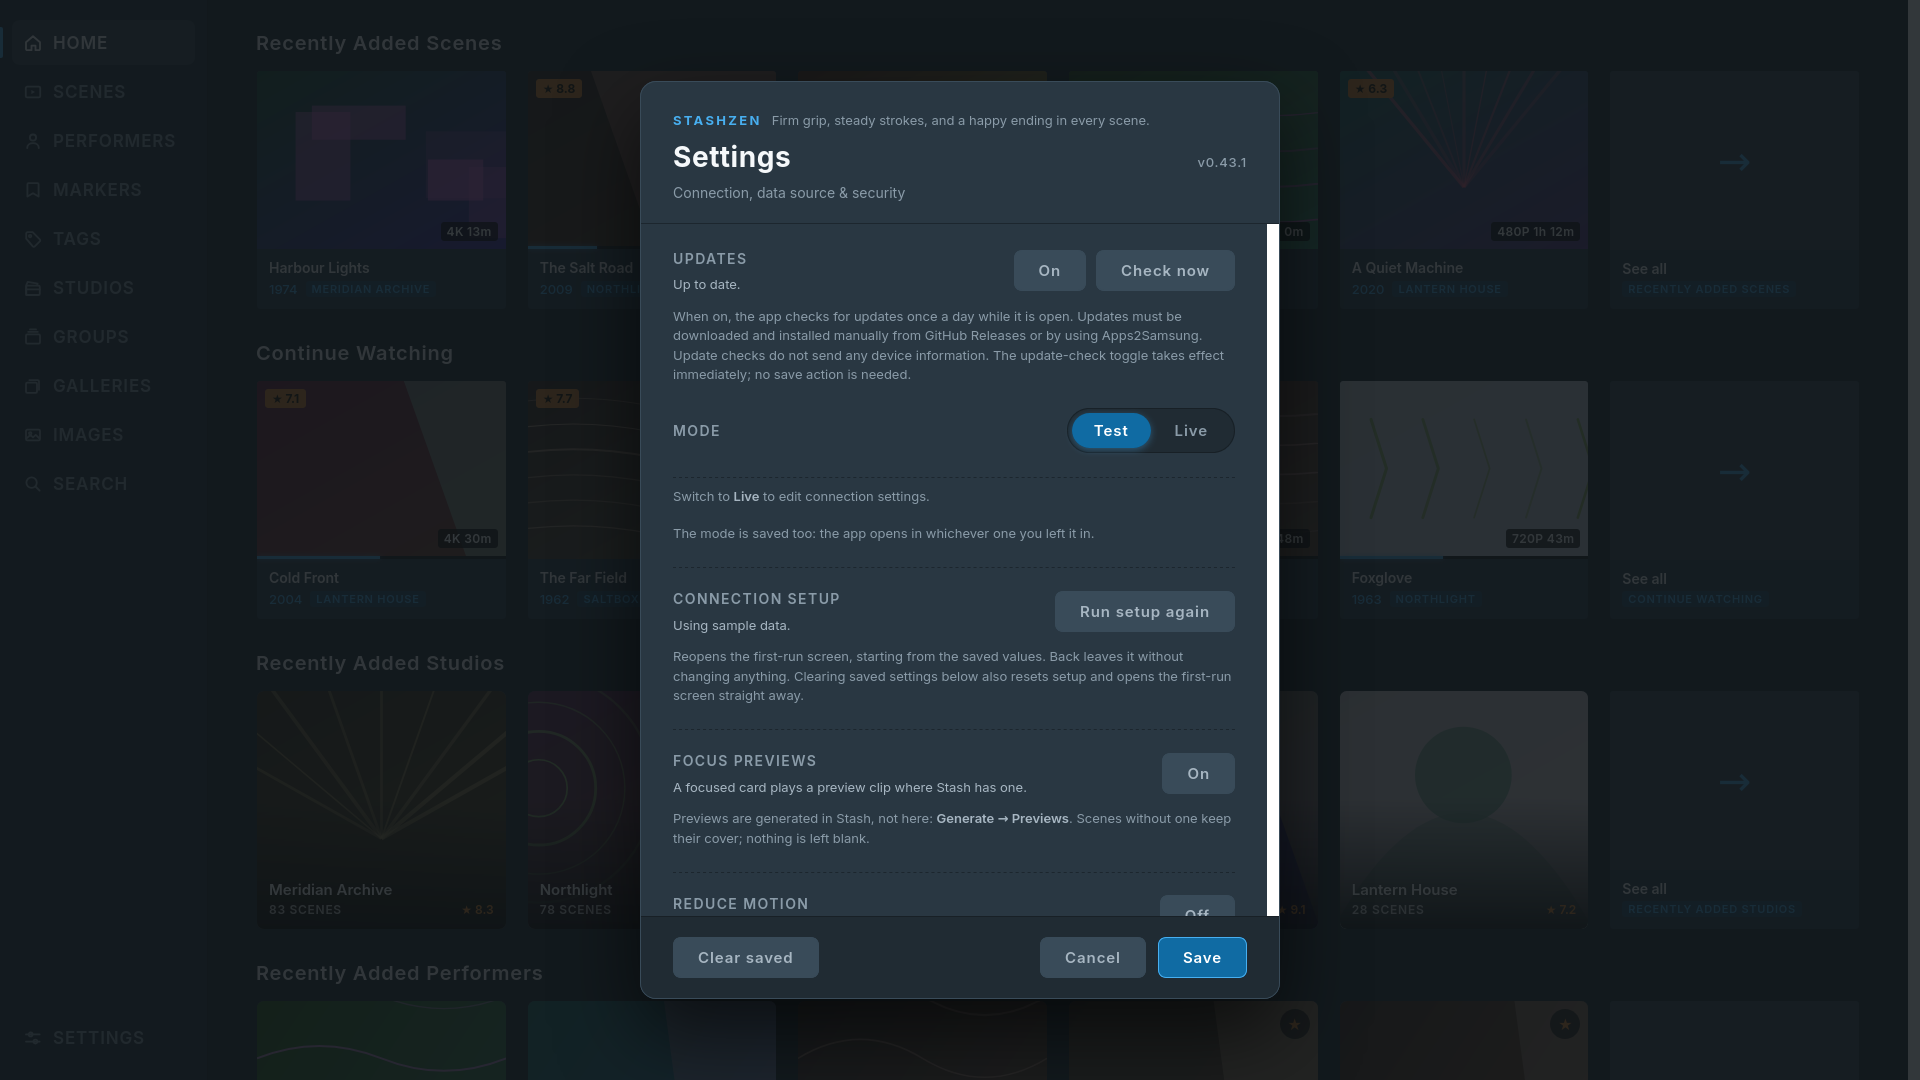
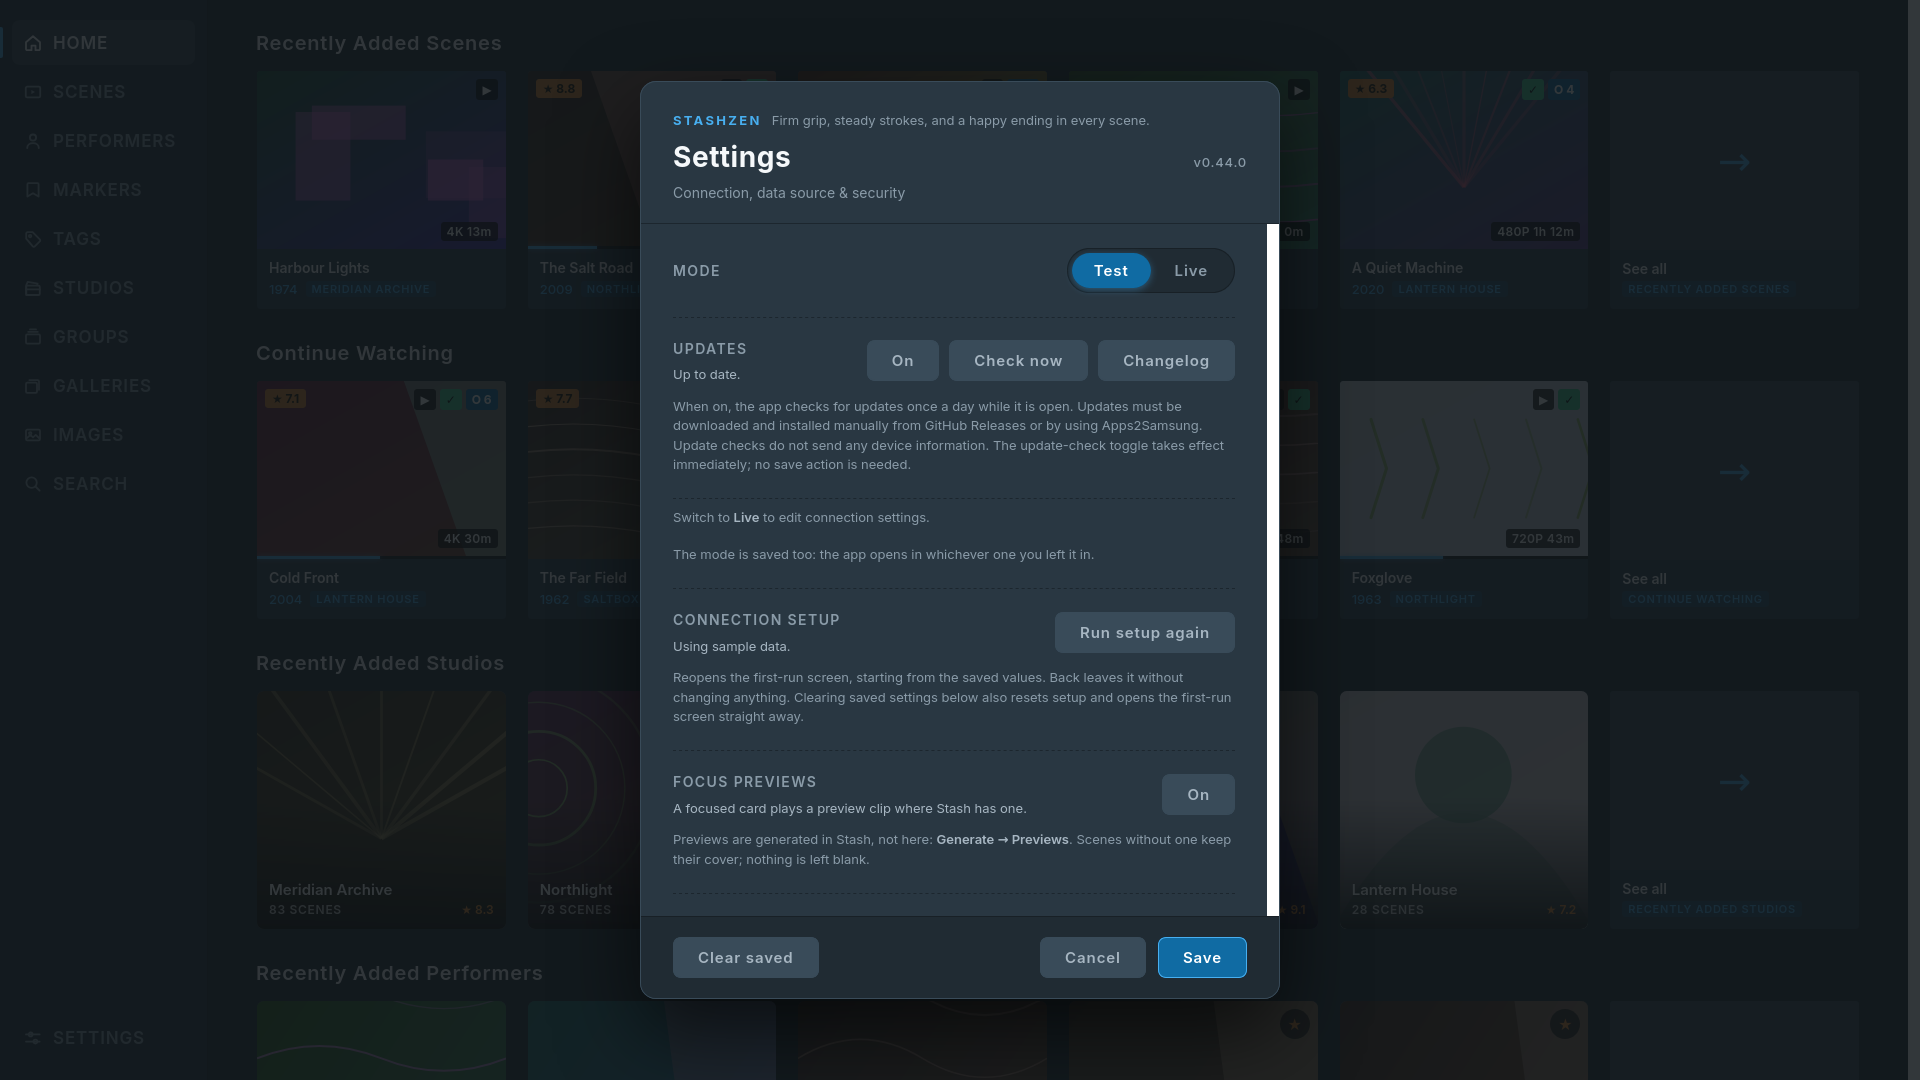
Refresh features and screenshots for 0.44.0

diff --git a/index.html b/index.html
@@ -69,13 +69,19 @@
           <p>The focused card plays a muted preview, no presses needed.</p>
         </article>
         <article class="card">
+          <h3>Card actions and marks</h3>
+          <p>Hold OK to mark a scene played, add an O, clear resume or mark it organised.
+             Watched, organised and O counts show on the cards themselves.</p>
+        </article>
+        <article class="card">
           <h3>Browse everything</h3>
           <p>Eight listings, up to four view modes, per-tab sort and filters. Every listing
              returns to the row you left.</p>
         </article>
         <article class="card">
           <h3>Search everywhere</h3>
-          <p>One field searches seven listings; "see all" opens it with the query.</p>
+          <p>One field searches scenes, performers, studios, tags, galleries, groups, images
+             and markers. Recent searches stay one press away.</p>
         </article>
         <article class="card">
           <h3>Filter builder</h3>
@@ -99,7 +105,7 @@
         <article class="card">
           <h3>Performer pages</h3>
           <p>Profile, images, galleries and tags one press away, with rate and favourite in
-             place.</p>
+             place. Play all and Shuffle run every scene under the current filter and sort.</p>
         </article>
         <article class="card">
           <h3>Info sheets</h3>
@@ -135,6 +141,16 @@
              couch.</p>
         </article>
         <article class="card">
+          <h3>Connection check</h3>
+          <p>When the server goes quiet, a banner says so and offers Retry; a spell of Wi-Fi
+             trouble no longer looks like a broken app.</p>
+        </article>
+        <article class="card">
+          <h3>Help and what's new</h3>
+          <p>Remote help lists every key in the app, and the Changelog shows what changed in
+             recent releases.</p>
+        </article>
+        <article class="card">
           <h3>Theme, PIN &amp; Test mode</h3>
           <p>Standard or true-black OLED, an optional launch PIN, and sample data without a
              server.</p>
@@ -153,7 +169,7 @@
           <a class="shot" href="screenshots/home.png">
             <img src="screenshots/home.png" alt="Home shelves with Continue Watching" width="1920" height="1080" loading="lazy">
           </a>
-          <figcaption>Home: shelves and Continue Watching</figcaption>
+          <figcaption>Home: shelves, card marks and Continue Watching</figcaption>
         </figure>
         <figure>
           <a class="shot" href="screenshots/scene-detail.png">
@@ -171,7 +187,7 @@
           <a class="shot" href="screenshots/performer-detail.png">
             <img src="screenshots/performer-detail.png" alt="Performer page with profile fields and scenes" width="1920" height="1080" loading="lazy">
           </a>
-          <figcaption>Performer page: profile fields and scenes</figcaption>
+          <figcaption>Performer page: Play all, Shuffle and scenes</figcaption>
         </figure>
         <figure>
           <a class="shot" href="screenshots/galleries.png">
@@ -189,7 +205,7 @@
           <a class="shot" href="screenshots/settings-updates.png">
             <img src="screenshots/settings-updates.png" alt="Settings showing the update check" width="1920" height="1080" loading="lazy">
           </a>
-          <figcaption>Settings: the update check, optional and off by default</figcaption>
+          <figcaption>Settings: update check, Changelog and previews</figcaption>
         </figure>
         <figure>
           <a class="shot" href="screenshots/settings-stats.png">
